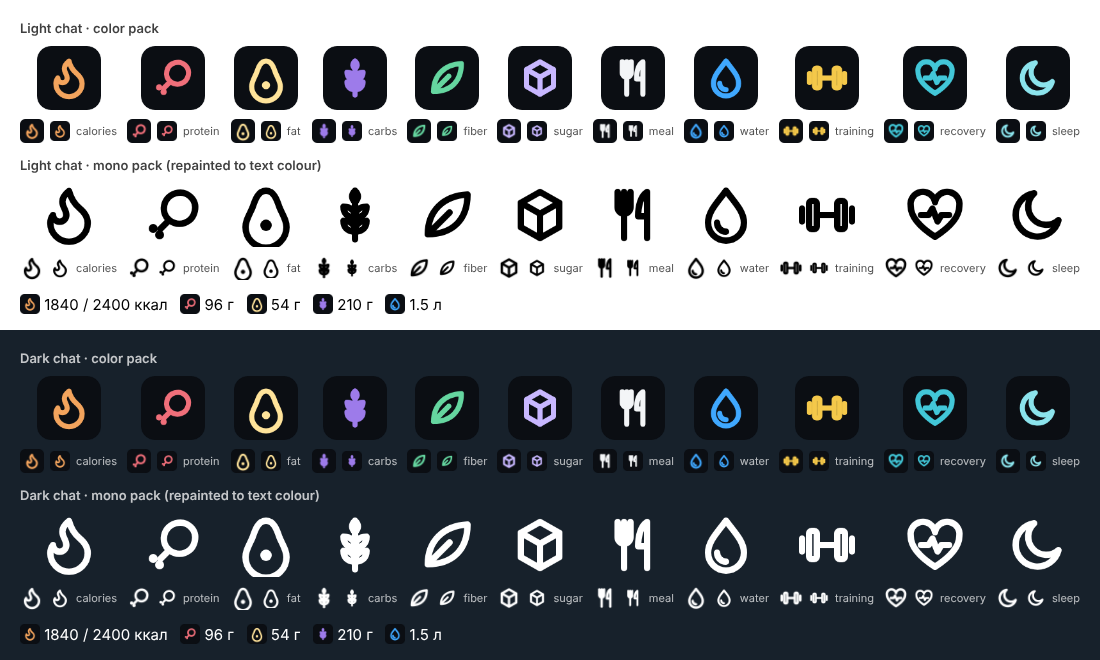
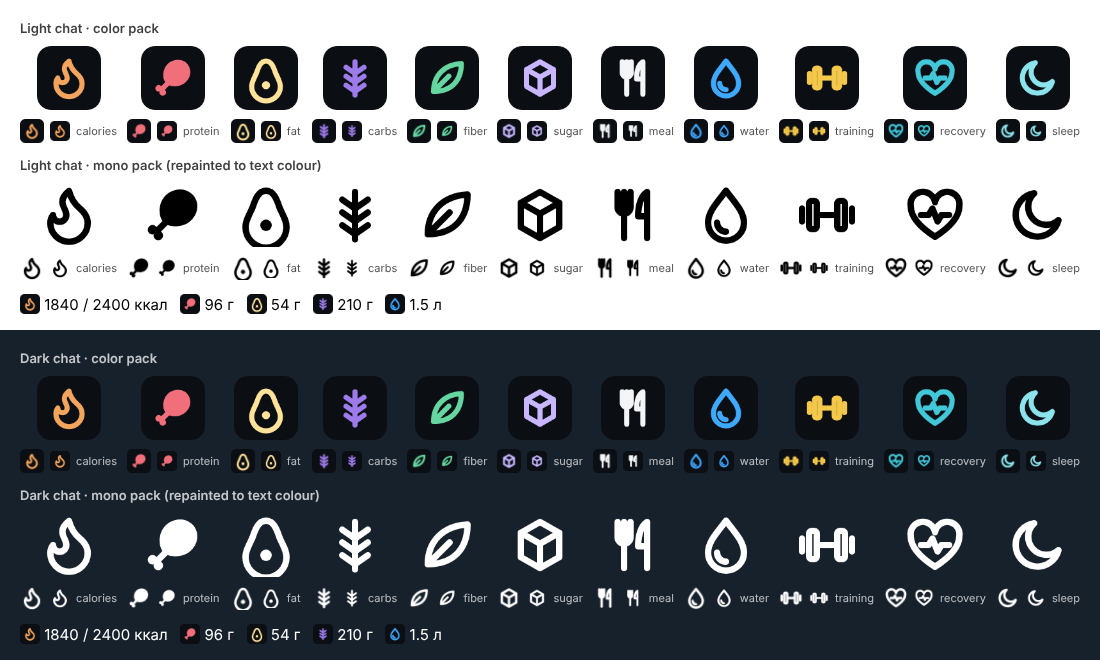
Fix small-size legibility of protein and carbs emoji; add pack tooling
Protein (read as a female sign at 20 px) is now a filled drumstick and
carbs (merged into a blob) is a stroked wheat ear. Fallbacks use fully
qualified emoji. telegram_pack.py checks custom emoji eligibility,
creates the custom_emoji set and writes the real IDs into icons.json.

Claude-Session: https://claude.ai/code/session_019BDaNBEuDCn6JutsEHyUyh

diff --git a/telegram_bot/emoji/telegram_pack.py b/telegram_bot/emoji/telegram_pack.py
@@ -1,0 +1,145 @@
+"""Check bot eligibility and register the NosiFit custom emoji pack (stdlib only).
+
+Reads TELEGRAM_BOT_TOKEN from the environment, like the bot itself.
+
+  # 1. Eligibility: send a test message with a real custom emoji ID and see whether
+  #    Telegram keeps the custom_emoji entity. Without --emoji-id, the newest custom
+  #    emoji someone sent to the bot is taken from getUpdates (stop the bot first,
+  #    polling conflicts with getUpdates).
+  python telegram_bot/emoji/telegram_pack.py check --chat-id 123456789 [--emoji-id 5368...]
+
+  # 2. Create the pack (the owner must be a real Telegram user who has started the bot)
+  python telegram_bot/emoji/telegram_pack.py create --owner-id 123456789 --variant color
+
+  # 3. Write the real IDs into icons.json (also works for a pack made in @Stickers)
+  python telegram_bot/emoji/telegram_pack.py ids [--set nosifit_by_<bot>]
+"""
+
+from __future__ import annotations
+
+import argparse
+import json
+import os
+import sys
+import urllib.error
+import urllib.request
+import uuid
+from pathlib import Path
+
+ROOT = Path(__file__).resolve().parent
+ICONS = ROOT / "icons.json"
+VS16 = ""
+
+
+def api(method: str, fields: dict | None = None, files: dict[str, Path] | None = None) -> dict:
+    token = os.environ.get("TELEGRAM_BOT_TOKEN") or sys.exit("TELEGRAM_BOT_TOKEN is not set")
+    url = f"https://api.telegram.org/bot{token}/{method}"
+    fields = {k: v if isinstance(v, str) else json.dumps(v, ensure_ascii=False)
+              for k, v in (fields or {}).items() if v is not None}
+    boundary = uuid.uuid4().hex
+    body = bytearray()
+    for name, value in fields.items():
+        body += f'--{boundary}\r\nContent-Disposition: form-data; name="{name}"\r\n\r\n{value}\r\n'.encode()
+    for name, path in (files or {}).items():
+        body += (f'--{boundary}\r\nContent-Disposition: form-data; name="{name}"; filename="{path.name}"\r\n'
+                 "Content-Type: image/png\r\n\r\n").encode() + path.read_bytes() + b"\r\n"
+    body += f"--{boundary}--\r\n".encode()
+    req = urllib.request.Request(url, bytes(body), {"Content-Type": f"multipart/form-data; boundary={boundary}"})
+    try:
+        with urllib.request.urlopen(req, timeout=60) as resp:
+            data = json.load(resp)
+    except urllib.error.HTTPError as e:
+        data = json.load(e)
+    if not data.get("ok"):
+        sys.exit(f"{method} failed: {data.get('error_code')} {data.get('description')}")
+    return data["result"]
+
+
+def load_icons() -> dict:
+    return json.loads(ICONS.read_text())
+
+
+def default_set_name(prefix: str) -> str:
+    return f"{prefix}_by_{api('getMe')['username']}"
+
+
+def latest_custom_emoji_id() -> str:
+    for update in reversed(api("getUpdates", {"allowed_updates": ["message"]})):
+        msg = update.get("message") or {}
+        for ent in msg.get("entities") or []:
+            if ent.get("type") == "custom_emoji":
+                return ent["custom_emoji_id"]
+    sys.exit("No custom emoji found in recent updates. Stop the bot, send it any custom emoji, retry, "
+             "or pass --emoji-id.")
+
+
+def cmd_check(args) -> None:
+    emoji_id = args.emoji_id or latest_custom_emoji_id()
+    text = f'<tg-emoji emoji-id="{emoji_id}">⭐</tg-emoji> NosiFit custom emoji test'
+    msg = api("sendMessage", {"chat_id": args.chat_id, "text": text, "parse_mode": "HTML"})
+    kept = [e for e in msg.get("entities") or [] if e.get("type") == "custom_emoji"]
+    print(json.dumps(msg.get("entities") or [], ensure_ascii=False))
+    if kept:
+        print("custom_emoji entity kept -> the bot can send custom emoji to this chat. "
+              "Confirm visually on Android and iOS.")
+    else:
+        print("custom_emoji entity dropped -> users see only the fallback. The bot needs a Fragment "
+              "username, or its owner needs Telegram Premium (private/group/supergroup chats only).")
+
+
+def cmd_create(args) -> None:
+    icons = load_icons()["icons"]
+    name = args.set or default_set_name(args.prefix)
+    stickers, files = [], {}
+    for key, spec in icons.items():
+        files[key] = ROOT / "png" / args.variant / f"{key}.png"
+        stickers.append({"sticker": f"attach://{key}", "format": "static",
+                         "emoji_list": [spec["fallback"]], "keywords": [key]})
+    api("createNewStickerSet", {
+        "user_id": str(args.owner_id), "name": name, "title": args.title,
+        "sticker_type": "custom_emoji", "needs_repainting": args.variant == "mono", "stickers": stickers,
+    }, files)
+    print(f"created https://t.me/addemoji/{name}")
+    write_ids(name)
+
+
+def write_ids(name: str) -> None:
+    data = load_icons()
+    by_emoji = {spec["fallback"].replace(VS16, ""): key for key, spec in data["icons"].items()}
+    found = {}
+    for st in api("getStickerSet", {"name": name})["stickers"]:
+        key = by_emoji.get((st.get("emoji") or "").replace(VS16, ""))
+        if key and st.get("custom_emoji_id"):
+            found[key] = st["custom_emoji_id"]
+    missing = sorted(set(data["icons"]) - set(found))
+    for key, emoji_id in found.items():
+        data["icons"][key]["custom_emoji_id"] = emoji_id
+    data["pack"] = name
+    ICONS.write_text(json.dumps(data, ensure_ascii=False, indent=2) + "\n")
+    print(f"wrote {len(found)} IDs to icons.json" + (f"; missing: {', '.join(missing)}" if missing else ""))
+
+
+def main() -> None:
+    ap = argparse.ArgumentParser(description=__doc__, formatter_class=argparse.RawDescriptionHelpFormatter)
+    sub = ap.add_subparsers(dest="cmd", required=True)
+    c = sub.add_parser("check")
+    c.add_argument("--chat-id", required=True)
+    c.add_argument("--emoji-id")
+    c.set_defaults(func=cmd_check)
+    n = sub.add_parser("create")
+    n.add_argument("--owner-id", type=int, required=True)
+    n.add_argument("--variant", choices=("color", "mono"), default="color")
+    n.add_argument("--prefix", default="nosifit")
+    n.add_argument("--set")
+    n.add_argument("--title", default="NosiFit")
+    n.set_defaults(func=cmd_create)
+    i = sub.add_parser("ids")
+    i.add_argument("--set")
+    i.add_argument("--prefix", default="nosifit")
+    i.set_defaults(func=lambda a: write_ids(a.set or default_set_name(a.prefix)))
+    args = ap.parse_args()
+    args.func(args)
+
+
+if __name__ == "__main__":
+    main()

diff --git a/telegram_bot/emoji/README.md b/telegram_bot/emoji/README.md
@@ -10,10 +10,10 @@ The custom emoji set the NosiFit bot will use in its messages. The style follows
 | carbs | `--nf-violet` | 🌾 |
 | fiber | `--nf-green` | 🥬 |
 | sugar | `--nf-violet-soft` | 🍬 |
-| meal | `--nf-text-main` | 🍽 |
+| meal | `--nf-text-main` | 🍽 |
 | water | `--nf-accent-water` | 💧 |
-| training | `--nf-accent-training` | 🏋 |
-| recovery | `--nf-accent-recovery` | ❤ |
+| training | `--nf-accent-training` | 🏋 |
+| recovery | `--nf-accent-recovery` | ❤ |
 | sleep | `--nf-blue-soft` | 🌙 |
 
 `icons.json` is the single source of truth for this mapping.
@@ -24,6 +24,7 @@ The custom emoji set the NosiFit bot will use in its messages. The style follows
 src/*.svg          editable glyph sources (100×100 grid, currentColor, stroke 10)
 icons.json         key → colour, fallback emoji, custom_emoji_id (null until registered)
 build.py           renders PNGs and the preview, then validates them (stdlib + headless Chromium)
+telegram_pack.py   eligibility check, pack creation, ID write-back (stdlib, uses TELEGRAM_BOT_TOKEN)
 png/color/*.png    brand tile + accent glyph, 100×100 RGBA
 png/mono/*.png     white glyph on transparent, 100×100 RGBA
 preview.html/.png  every icon on light and dark chat backgrounds, at 64, 24 and 20 px
@@ -43,9 +44,15 @@ To rebuild after editing a source, run `python telegram_bot/emoji/build.py`. It 
 - **Sending:** in HTML parse mode (this bot's default) write `<tg-emoji emoji-id="ID">FALLBACK</tg-emoji>`. The inner text must be a valid standard emoji. Telegram shows it wherever custom emoji can't render, such as notifications and some forwards.
 - **Eligibility:** the bot can send custom emoji if it bought an additional username on Fragment. It can also send them in messages sent directly to private, group and supergroup chats if the bot's owner has Telegram Premium. If neither applies, Telegram shows only the fallback emoji.
 
-## Remaining steps (not done yet)
+## Remaining steps
 
-1. Register one pack from `png/color/` or `png/mono/`, using the fallback emoji from `icons.json`.
-2. Read the real IDs with `getCustomEmojiStickers` or by forwarding an emoji to the bot, then fill `custom_emoji_id` in `icons.json`.
-3. Confirm the bot is eligible: a Fragment username, or an owner with Premium.
-4. Only then replace the emoji literals in `telegram_bot/handlers/*` with `<tg-emoji>` tags.
+Every PNG was checked after downscaling to 20 and 24 px on light and dark backgrounds.
+
+1. **Eligibility (do this first).** Run `python telegram_bot/emoji/telegram_pack.py check --chat-id <your chat id>`.
+   It sends a test message with a real custom emoji (pass `--emoji-id`, or send the bot any custom emoji first with the bot stopped).
+   It then reports whether Telegram kept the `custom_emoji` entity. Confirm by eye on a phone as well.
+2. **Register.** Run `telegram_pack.py create --owner-id <your Telegram user id> --variant color` (or `mono`).
+   This creates `nosifit_by_<bot>` and writes the real IDs into `icons.json`.
+   If you made the pack by hand in @Stickers, run `telegram_pack.py ids --set <name>` instead.
+3. **Integrate.** Only then replace the emoji literals in `telegram_bot/handlers/*` with `<tg-emoji>` tags.
+   Test on Android and iOS, in both light and dark themes.
